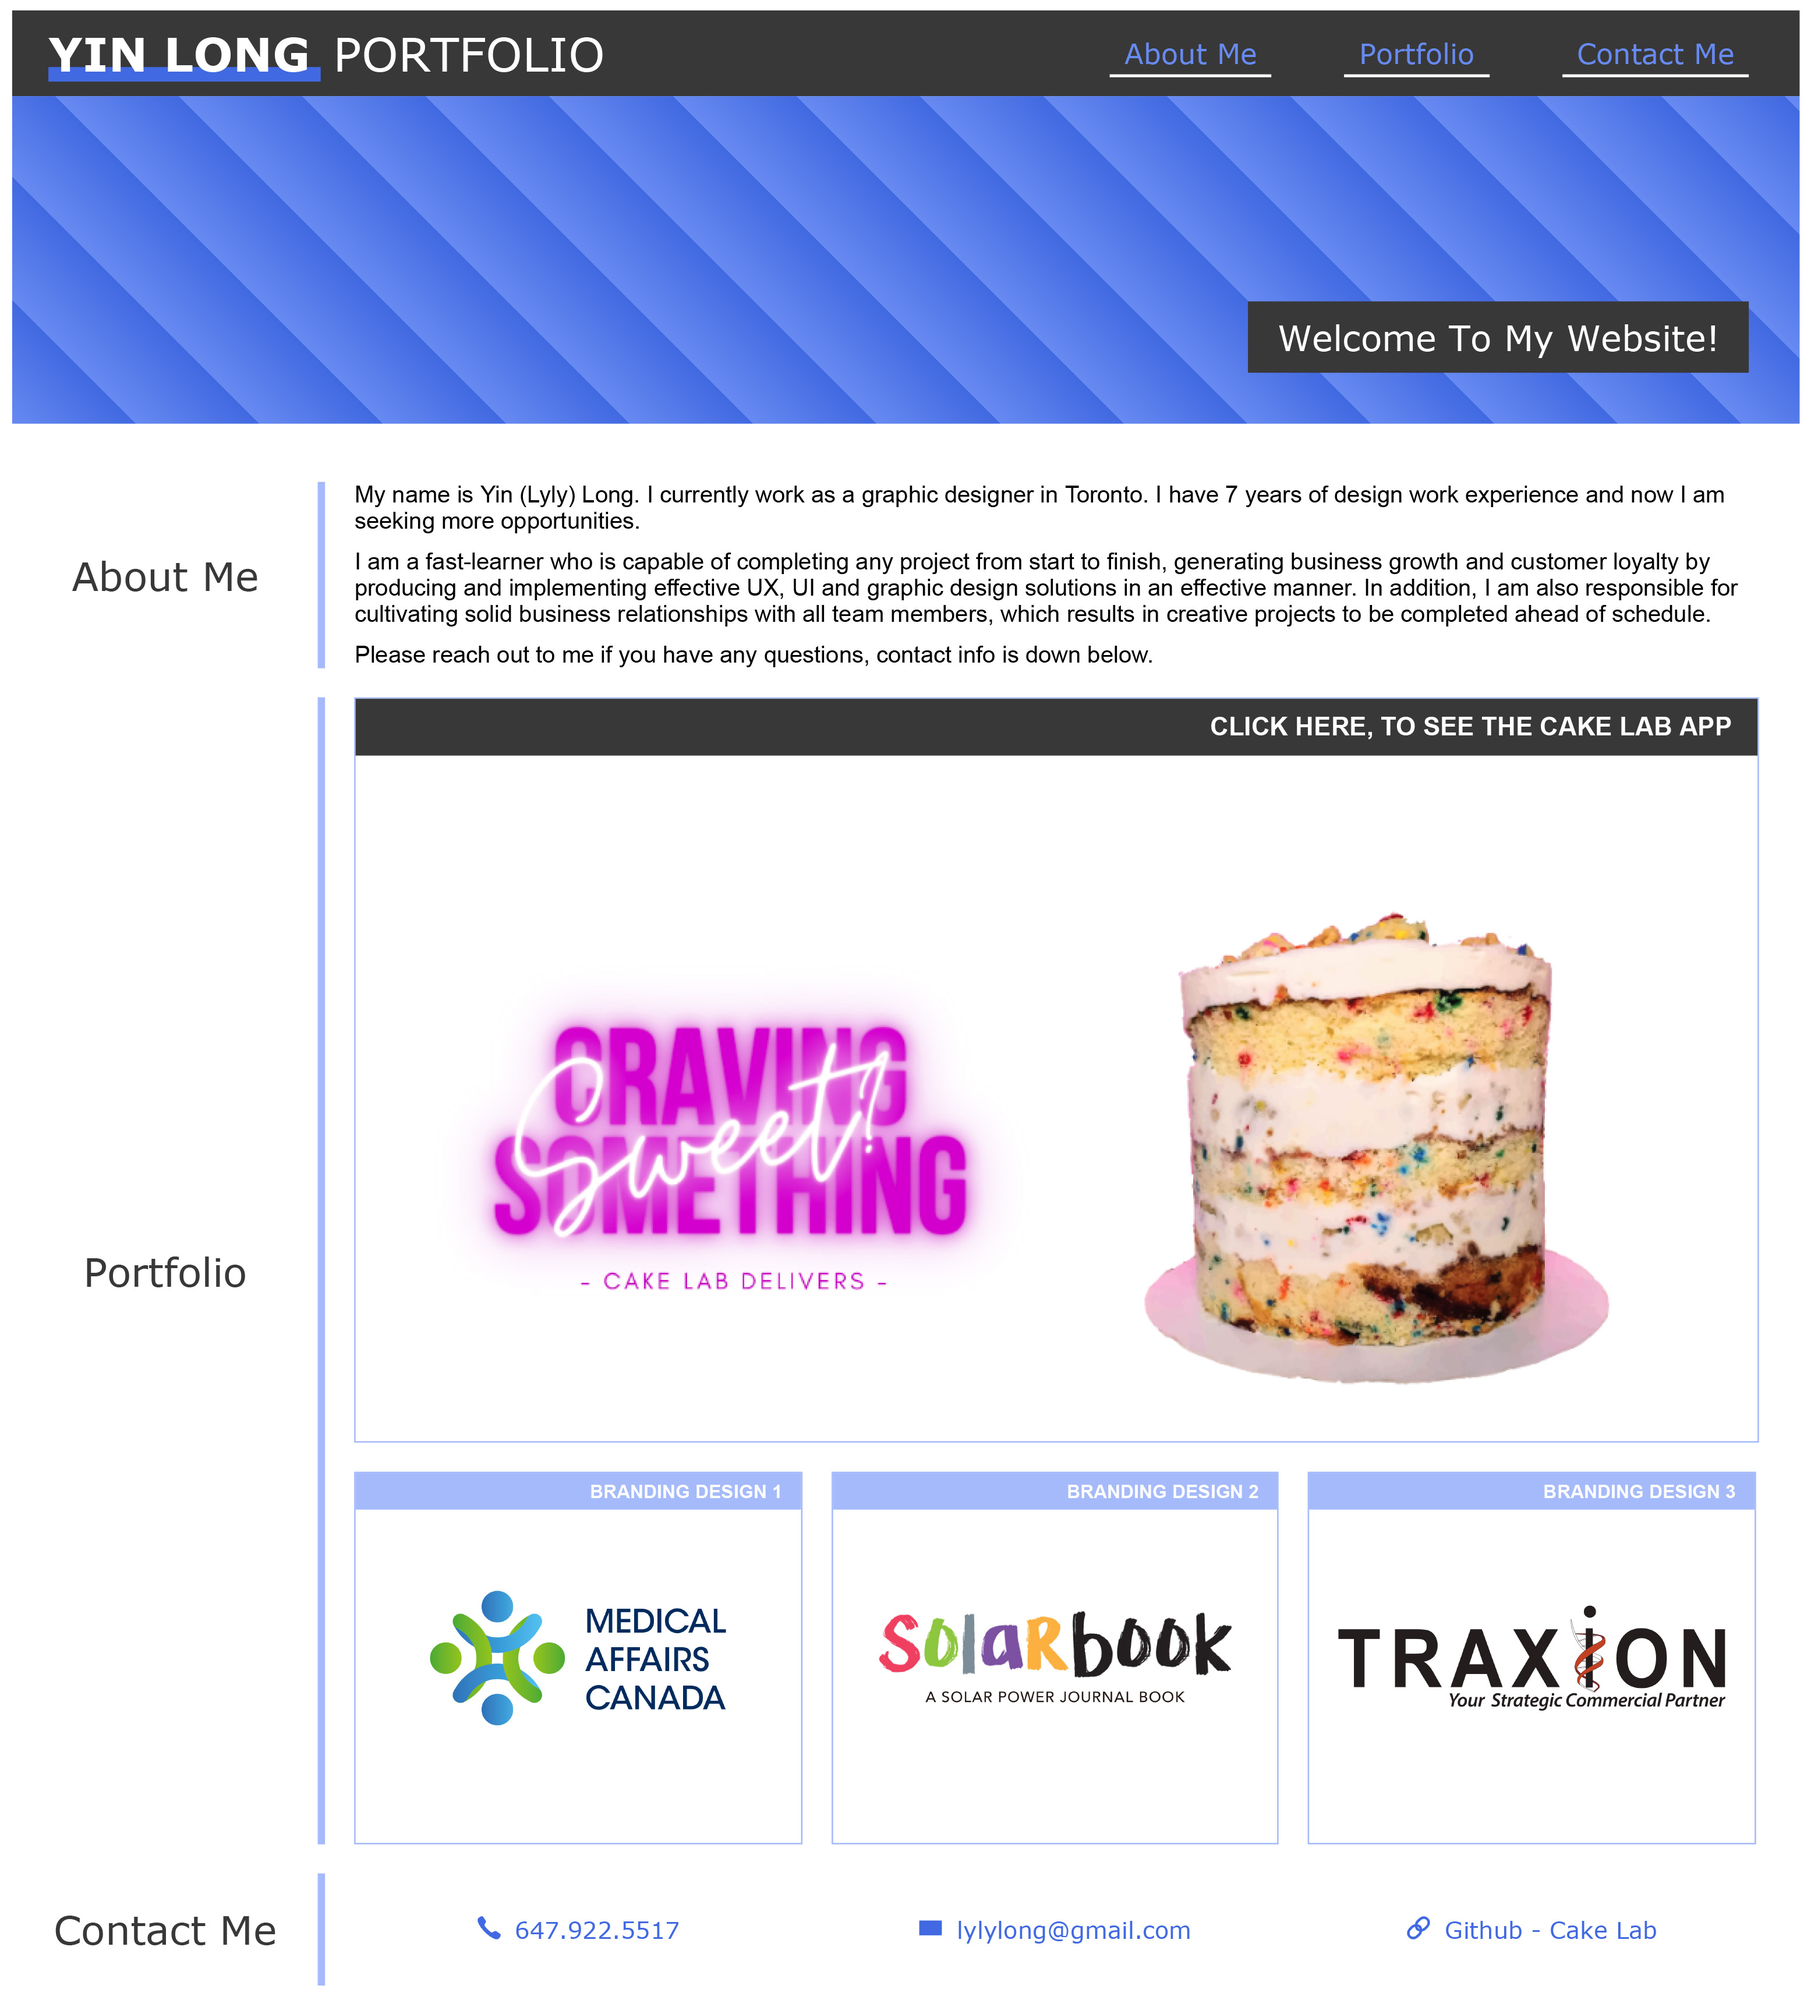
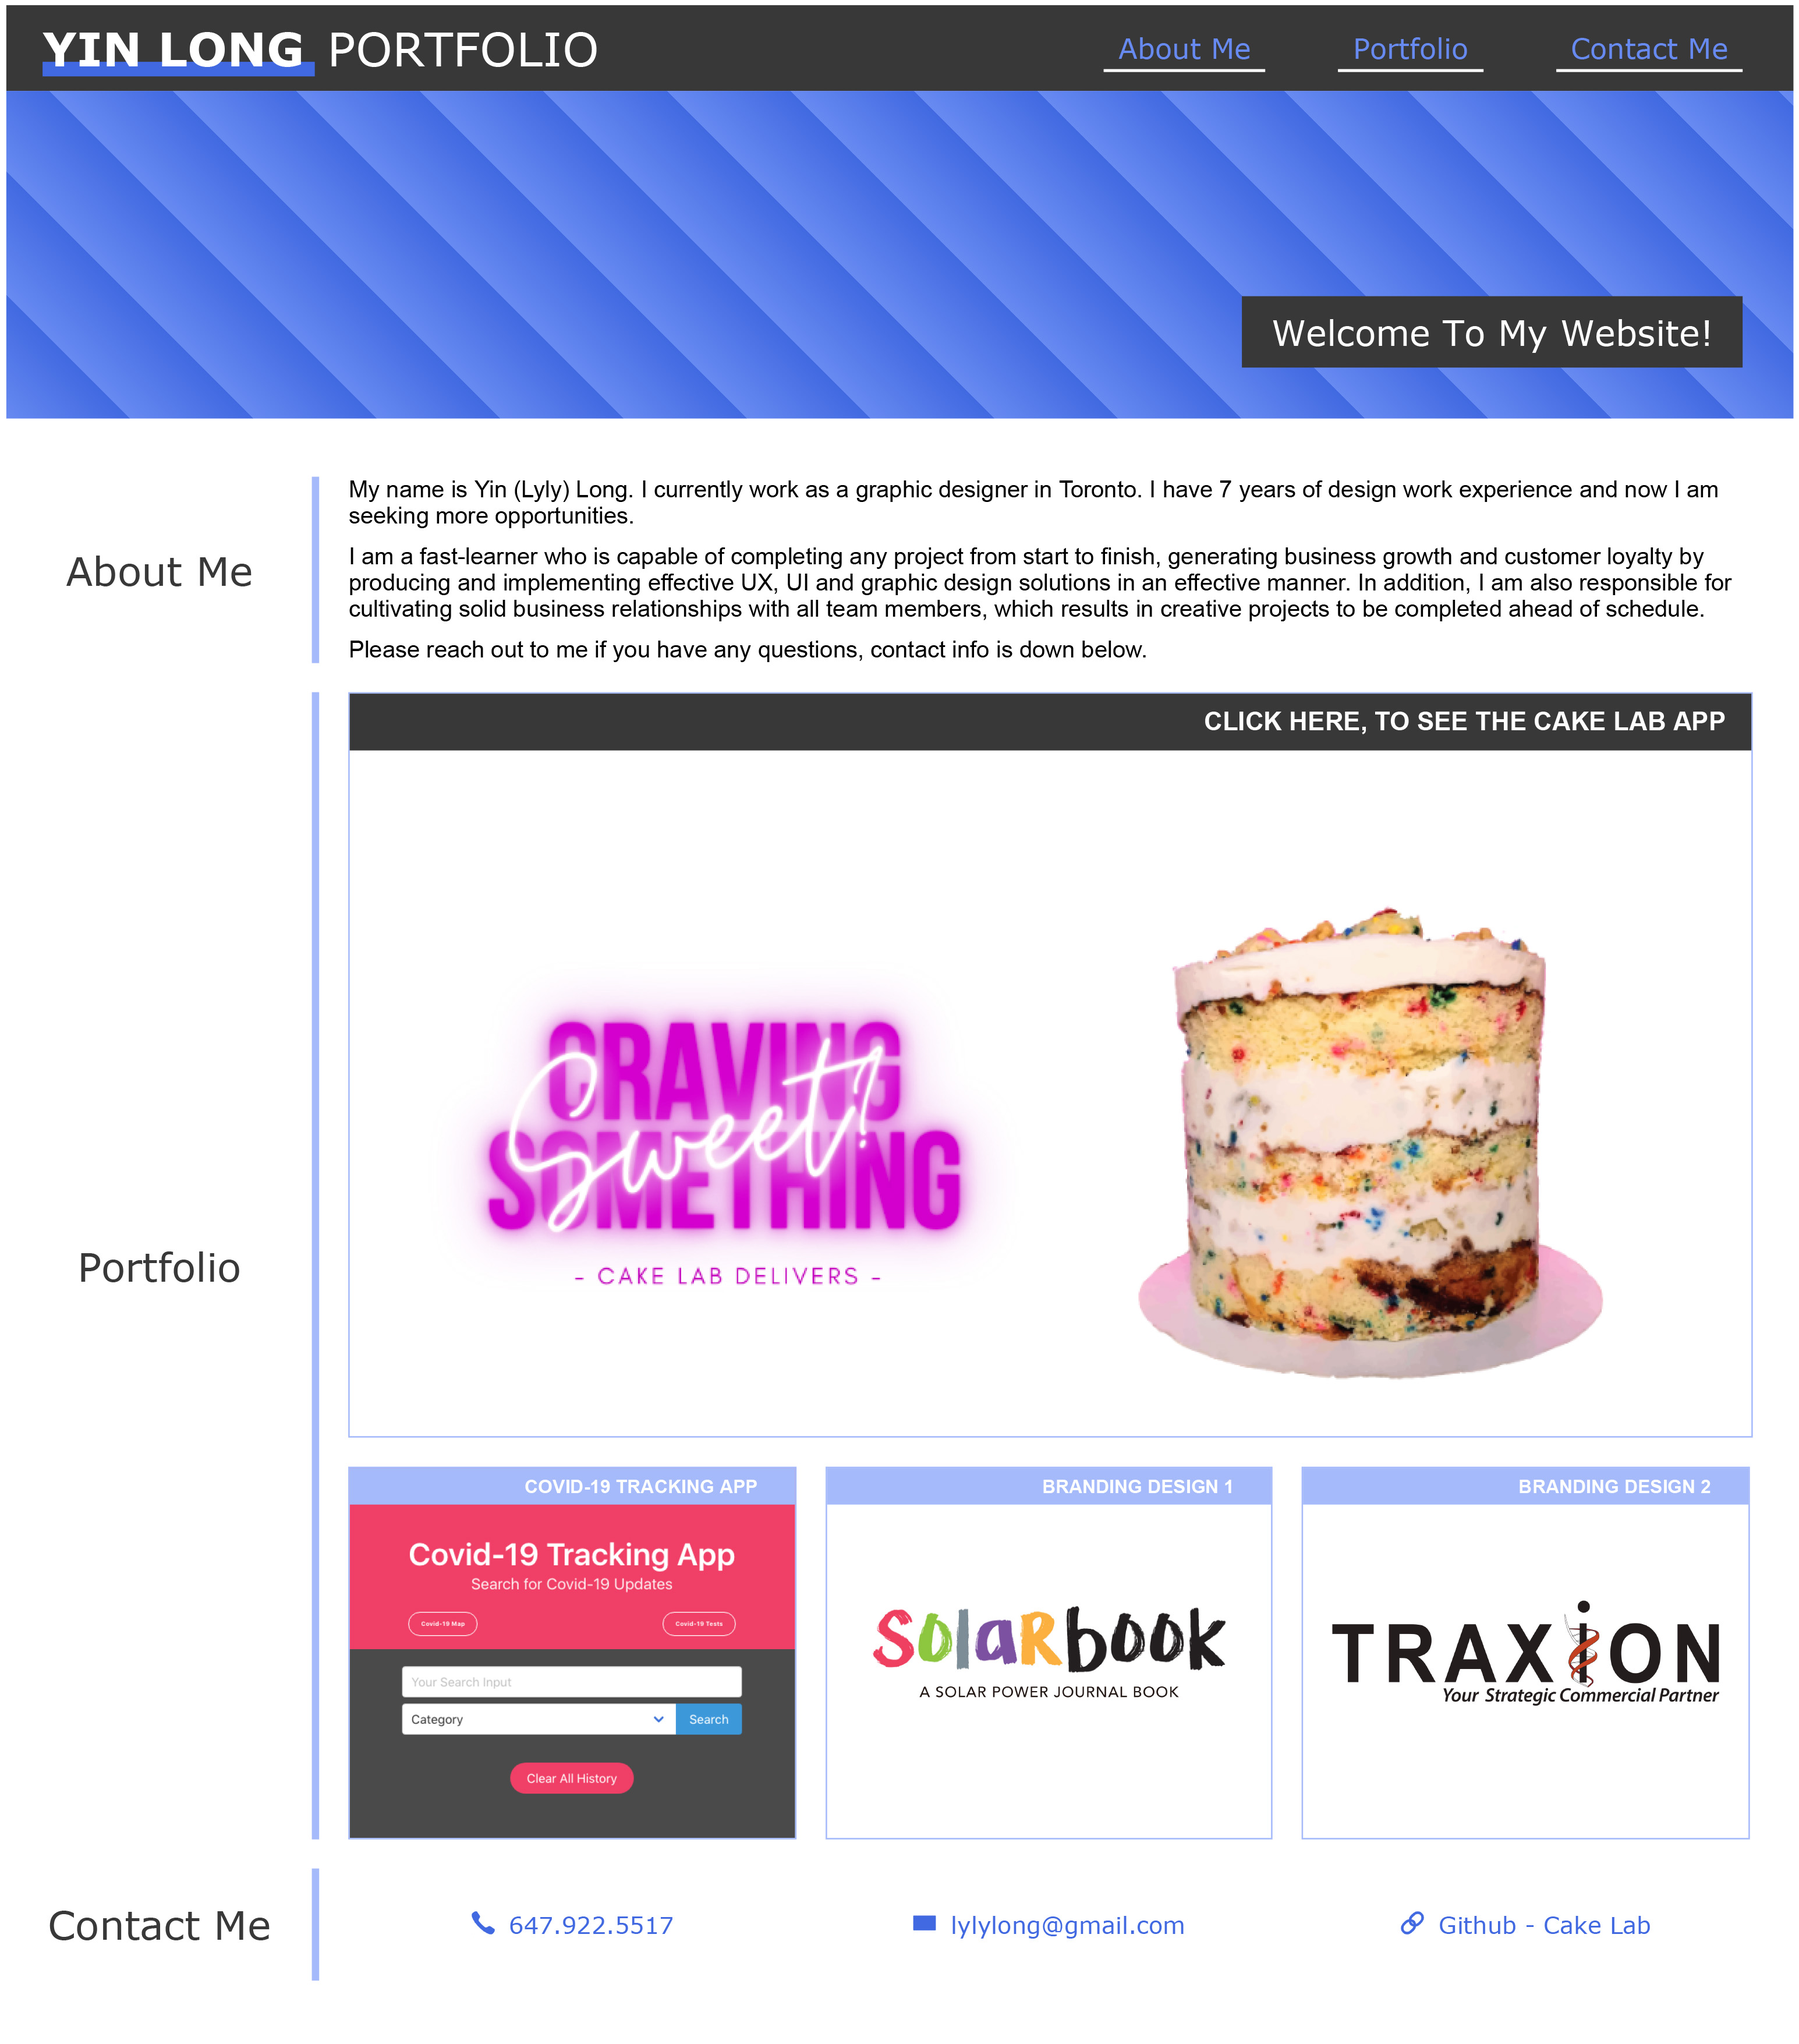
link cake app & covid-19 tracking app

diff --git a/index.html b/index.html
@@ -37,10 +37,12 @@
             <div id="portfolio" class="portfolio-title small-titles">Portfolio</div>
           <div class="portfolio-large"><h3>
               <a href="https://cake-lab-app.herokuapp.com/">CLICK HERE, TO SEE THE CAKE LAB APP</a></h3></div>
+              
           <!-- <div class="portfolio-med"><h3>UIUX DESIGN</h3></div> -->
-          <div class="portfolio-small-1 brand-design"><h3>Branding Design 1</h3></div>
-          <div class="portfolio-small-2 brand-design"><h3>Branding Design 2</h3></div>
-          <div class="portfolio-small-3 brand-design"><h3>Branding Design 3</h3></div>
+          <!-- <div class="portfolio-small-1 brand-design"><h3>Covid-19 Tracking App</h3></div> -->
+          <div class="portfolio-small-1 brand-design"><h3><a href="https://briebencich.github.io/Covid-19-Tracking/">Covid-19 Tracking App</a></h3></div>
+          <div class="portfolio-small-2 brand-design"><h3><a href="#">Branding Design 1</a></h3></div>
+          <div class="portfolio-small-3 brand-design"><h3><a href="#">Branding Design 2</a></h3></div>
           <div id="contact-me" class="contact-me-title small-titles">Contact Me</div>
           <div class="phone contact-info">647.922.5517</div>
           <div class="email contact-info">lylylong@gmail.com</div>

diff --git a/assets/css/style.css b/assets/css/style.css
@@ -162,19 +162,20 @@ nav ul li a:hover {
   border: 1px solid var(--light);
   text-transform: uppercase;
 }
+.brand-design h3 a,
 .brand-design h3 {
   display: flex;
   justify-content: flex-end;
   color: white;
   background-color: var(--light);
   font-size: 0.8rem;
-  padding: 0.4em 1em;
+  padding: 0.2em 1em;
 }
 .brand-design:hover {
   opacity: 0.5;
 }
 .portfolio-small-1 {
-  background-image: url(../images/mac-logo.png);
+  background-image: url(../images/covid-19-tracking.png);
   grid-column: 2 / 3;
 }
 .portfolio-small-2 {

diff --git a/README.md b/README.md
@@ -26,7 +26,7 @@ https://github.com/lylylong/cake-app.git
 
 ## Screenshots
 
-![LY Portfolio](https://user-images.githubusercontent.com/70302749/102698108-eab78780-4208-11eb-84a6-87cc9478516f.jpg)
+![LY Portfolio](https://user-images.githubusercontent.com/70302749/102698950-379e5c80-420f-11eb-813f-4a0bd55ec46a.jpg)
 
 
 ## Installation
